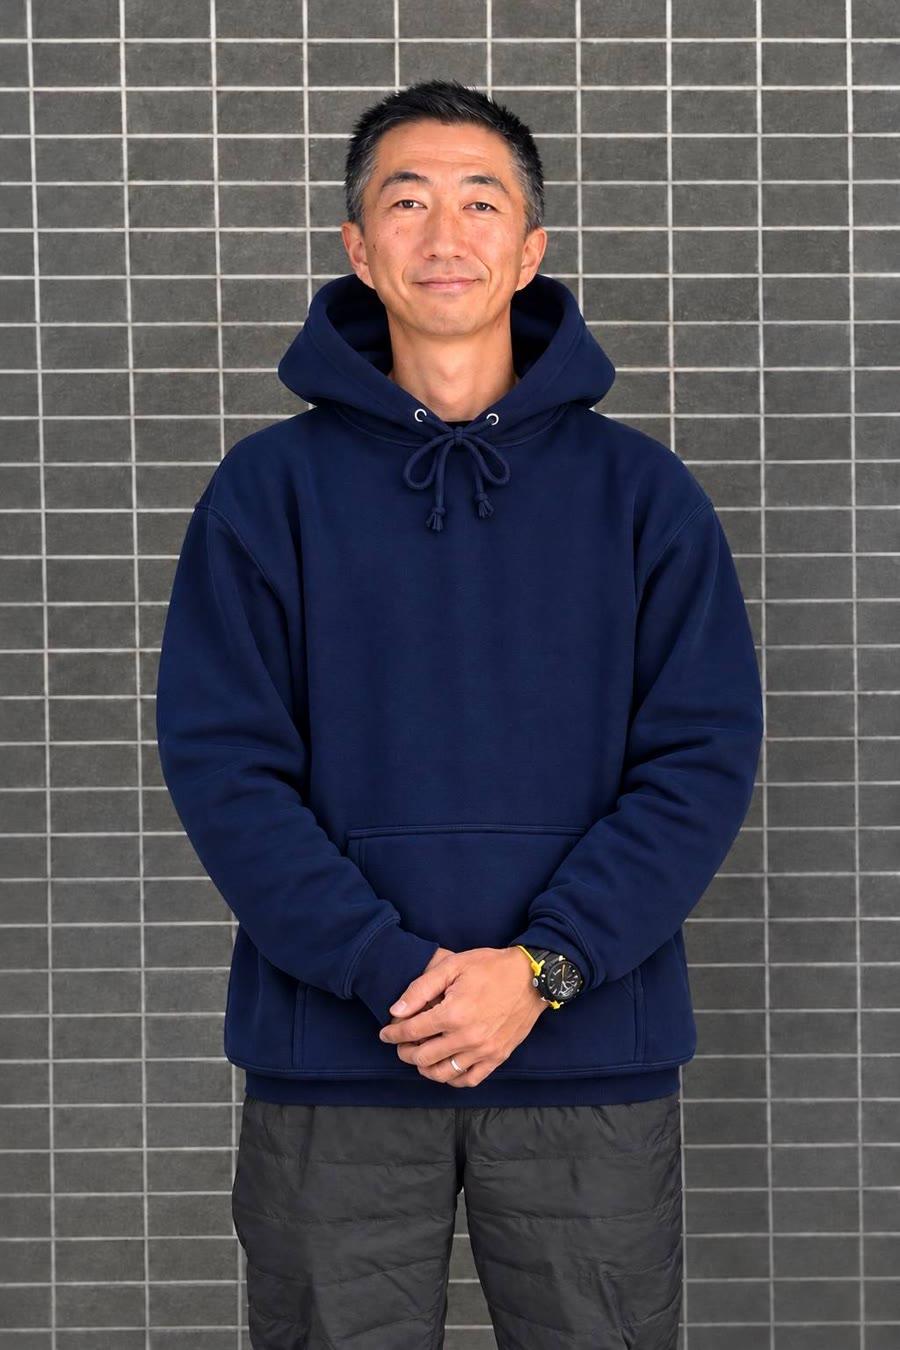
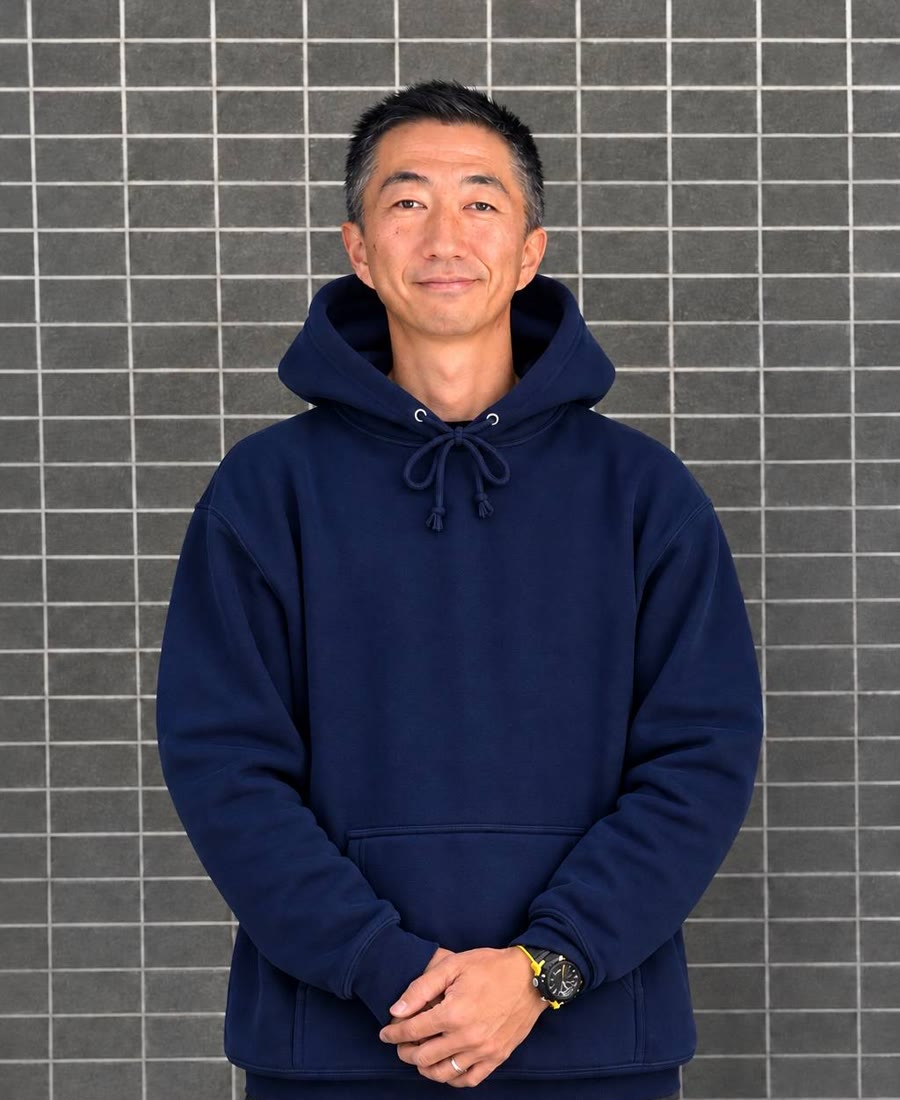
Client revision: service under hero, representative message, cleanup
- Service block moved directly under the hero; 'SERVICE' title and
  section numbers removed
- Representative message added to the company section; photo is now a
  bust-up, logo above it removed, centred on mobile
- Instagram QR and the bottom gallery (shop photos / yard clips) removed

Claude-Session: https://claude.ai/code/session_015dXEvPntYhBVMecd58rMDS

diff --git a/index.html b/index.html
@@ -138,10 +138,38 @@
   </div>
 </section>
 
+<!-- ============ SERVICE (right under the hero) ============ -->
+<section class="svc" id="service" aria-label="サービス">
+  <div class="wrap">
+
+    <div class="svc__cards">
+      <article class="svc__card" data-fade>
+        <video muted loop playsinline preload="metadata" poster="assets/img/yard3.jpg" aria-hidden="true"><source src="assets/video/yard3.mp4" type="video/mp4"><source src="assets/video/yard3.webm" type="video/webm"></video>
+        <div class="svc__card__in">
+          <i>01</i><b>Used cars</b><h3>中古車販売</h3>
+          <p>輸入車を中心に、国産車もメーカーを問わず対応いたします。</p>
+          <div class="svc__links">
+            <a href="http://www.carsensor.net/shopnavi/331885001" target="_blank" rel="noopener" data-cursor="hover">カーセンサー <em>↗</em></a>
+            <a href="https://www.instagram.com/kotaki_motors_kyoto/" target="_blank" rel="noopener" data-cursor="hover">Instagram <em>↗</em></a>
+          </div>
+        </div>
+      </article>
+      <a class="svc__card" href="flow.html" data-cursor="hover" data-fade>
+        <video muted loop playsinline preload="metadata" poster="assets/img/gloss2.jpg" aria-hidden="true"><source src="assets/video/gloss2.mp4" type="video/mp4"><source src="assets/video/gloss2.webm" type="video/webm"></video>
+        <div class="svc__card__in">
+          <i>02</i><b>Contract flow</b><h3>各種ご契約までの流れ</h3>
+          <p>店頭・オンライン・ヤフーオークション・カーコーティング。ご希望の方法に合わせた流れをご案内します。</p>
+          <span class="svc__more">詳しく見る <em>→</em></span>
+        </div>
+      </a>
+    </div>
+  </div>
+</section>
+
 <!-- ============ CONCEPT ============ -->
 <section class="concept" id="concept">
   <div class="wrap">
-    <p class="label"><span>01</span>Concept</p>
+    <p class="label">Concept</p>
     <p class="concept__lead" id="lead">コタキモータースでは、輸入中古車に最大限力を入れております。</p>
     <p class="concept__note" data-fade>※ご注文等、国産車もお取り扱いしております。</p>
 
@@ -207,7 +235,7 @@
 <section class="coated__body">
   <div class="wrap grid">
     <div class="col-l">
-      <p class="label"><span>02</span>All cars coated</p>
+      <p class="label">All cars coated</p>
       <h2 class="h-jp" data-lines>販売車両は全車<br>ガラスコーティング<br>施工済み</h2>
     </div>
     <div class="col-r prose why">
@@ -226,7 +254,7 @@
 <section class="coating" id="coating">
   <div class="coating__ghost" aria-hidden="true" id="ghost">CAR COATING</div>
   <div class="wrap">
-    <p class="label"><span>03</span>Car coating</p>
+    <p class="label">Car coating</p>
     <div class="coating__head">
       <h2 class="h-jp xl" data-lines>高品質な<br>コーティングを、<br>もっと身近な価格で。</h2>
       <div class="prose">
@@ -250,7 +278,7 @@
 <!-- ============ LOW COST ≠ LOW QUALITY ============ -->
 <section class="value" id="value" data-theme="light">
   <div class="wrap">
-    <p class="label"><span>04</span>Our reason</p>
+    <p class="label">Our reason</p>
     <h2 class="value__title" aria-label="LOW COST, HIGH QUALITY">
       <span class="ln"><span>LOW COST</span></span>
       <span class="ln ne"><span class="neq" id="neq"><svg viewBox="0 0 80 80" aria-hidden="true"><path class="bar1" d="M6 40H74"/><path class="bar2" d="M40 6V74"/></svg></span></span>
@@ -312,7 +340,7 @@
 <section class="process" id="process">
   <div class="process__pin">
     <div class="process__head wrap">
-      <p class="label"><span>05</span>Inside the booth</p>
+      <p class="label">Inside the booth</p>
       <h2 class="process__title">FROM FOAM<br>TO FINISH</h2>
       <p class="process__sub">施工ブースの様子</p>
     </div>
@@ -346,48 +374,31 @@
 </section>
 
 <!-- ============ SERVICE ============ -->
-<section class="svc" id="service">
-  <div class="wrap">
-    <p class="label"><span>06</span>Service</p>
-    <div class="svc__top">
-      <h2 class="svc__title">SERVICE</h2>
-    </div>
 
-    <div class="svc__cards">
-      <article class="svc__card" data-fade>
-        <video muted loop playsinline preload="metadata" poster="assets/img/yard3.jpg" aria-hidden="true"><source src="assets/video/yard3.mp4" type="video/mp4"><source src="assets/video/yard3.webm" type="video/webm"></video>
-        <div class="svc__card__in">
-          <i>01</i><b>Used cars</b><h3>中古車販売</h3>
-          <p>輸入車を中心に、国産車もメーカーを問わず対応いたします。</p>
-          <div class="svc__links">
-            <a href="http://www.carsensor.net/shopnavi/331885001" target="_blank" rel="noopener" data-cursor="hover">カーセンサー <em>↗</em></a>
-            <a href="https://www.instagram.com/kotaki_motors_kyoto/" target="_blank" rel="noopener" data-cursor="hover">Instagram <em>↗</em></a>
-          </div>
-        </div>
-      </article>
-      <a class="svc__card" href="flow.html" data-cursor="hover" data-fade>
-        <video muted loop playsinline preload="metadata" poster="assets/img/gloss2.jpg" aria-hidden="true"><source src="assets/video/gloss2.mp4" type="video/mp4"><source src="assets/video/gloss2.webm" type="video/webm"></video>
-        <div class="svc__card__in">
-          <i>02</i><b>Contract flow</b><h3>各種ご契約までの流れ</h3>
-          <p>店頭・オンライン・ヤフーオークション・カーコーティング。ご希望の方法に合わせた流れをご案内します。</p>
-          <span class="svc__more">詳しく見る <em>→</em></span>
-        </div>
-      </a>
-    </div>
-  </div>
-</section>
 
 <!-- ============ COMPANY / CONTACT ============ -->
 <section class="company" id="company">
   <div class="wrap">
-    <p class="label"><span>07</span>Company</p>
+    <p class="label">Company</p>
+        <div class="greet" id="greeting">
+      <p class="label">Message</p>
+      <h2 class="greet__q" data-lines>なぜ、全車コーティング<br>施工済みで販売するのか？</h2>
+      <div class="greet__body prose">
+        <p class="prose__lead" data-fade>美しさも、品質のひとつ。</p>
+        <p data-fade>コタキモータースでは、ご購入いただくお車すべてにガラスコーティングを標準施工しています。</p>
+        <p data-fade>中古車は、一台一台の使用環境や保管状況によって、ボディの状態が異なります。<br>だからこそ、仕入れた車両の状態に合わせた下地処理や研磨を行い、ボディ本来の美しさを引き出したうえで、ガラスコーティングを施工しています。</p>
+        <p data-fade>それは、単に見た目を美しくするためだけではありません。<br>塗装面を保護し、日々のお手入れをしやすくすることで、ご購入後も愛車を美しく保っていただきたいからです。</p>
+        <p data-fade>車両の仕入れ時の良質な個体選びはもちろんのこと、通常は購入時に追加オプションとなるボディコーティングを、当店では標準サービスとしてご提供。</p>
+        <p class="greet__quote" data-fade>「中古車だから、この程度でいい」ではなく、<br>「中古車だからこそ、ここまでこだわる」。</p>
+        <p data-fade>お車を選ぶ喜びだけでなく、納車された瞬間の感動と、その先のカーライフまで。<br>それが、コタキモータースの考える中古車販売です。</p>
+        <p class="greet__sign" data-fade>KOTAKI MOTORS<br>代表　小滝 貴之</p>
+      </div>
+    </div>
+
     <div class="company__grid">
       <div class="company__side">
-        <div class="company__logo" data-fade>
-          <img src="assets/img/logo.png" width="512" height="519" alt="KOTAKI MOTORS ロゴ" loading="lazy">
-        </div>
         <figure class="company__rep" data-fade>
-          <img src="assets/img/daihyo.jpg" width="900" height="1350" alt="代表 小滝 貴之" loading="lazy">
+          <img src="assets/img/daihyo.jpg" width="900" height="1100" alt="代表 小滝 貴之" loading="lazy">
           <figcaption><small>Representative</small>代表　小滝 貴之</figcaption>
         </figure>
       </div>
@@ -406,15 +417,7 @@
         <div><dt>お支払い</dt><dd>各種クレジット払い対応<span class="info__note">車両代金以外のパーツ費用や車検費用等にご利用いただけます。</span></dd></div>
       </dl>
     </div>
-
-    <div class="shop" data-fade>
-      <figure><img src="assets/img/shop-cabin.jpg" width="1400" height="1050" alt="KOTAKI MOTORS 店舗事務所の外観" loading="lazy"></figure>
-      <figure><img src="assets/img/shop-sign.jpg" width="1400" height="1050" alt="KOTAKI MOTORS の看板と展示車両" loading="lazy"></figure>
-      <figure class="shop__v"><video muted loop playsinline preload="metadata" poster="assets/img/yard.jpg" aria-label="展示場の様子"><source src="assets/video/yard.mp4" type="video/mp4"><source src="assets/video/yard.webm" type="video/webm"></video></figure>
-      <figure class="shop__v"><video muted loop playsinline preload="metadata" poster="assets/img/yard3.jpg" aria-label="展示場と事務所"><source src="assets/video/yard3.mp4" type="video/mp4"><source src="assets/video/yard3.webm" type="video/webm"></video></figure>
-    </div>
-
-    <div class="map" data-fade>
+<div class="map" data-fade>
       <iframe title="KOTAKI MOTORS の所在地（Google マップ）" loading="lazy" referrerpolicy="no-referrer-when-downgrade"
         src="https://maps.google.com/maps?q=%E4%BA%AC%E9%83%BD%E5%BA%9C%E5%AE%87%E6%B2%BB%E5%B8%82%E4%BC%8A%E5%8B%A2%E7%94%B0%E7%94%BA%E9%81%8A%E7%94%B072-1&hl=ja&z=16&output=embed"></iframe>
       <a class="map__link" href="https://www.google.com/maps/search/?api=1&query=%E4%BA%AC%E9%83%BD%E5%BA%9C%E5%AE%87%E6%B2%BB%E5%B8%82%E4%BC%8A%E5%8B%A2%E7%94%B0%E7%94%BA%E9%81%8A%E7%94%B072-1" target="_blank" rel="noopener" data-cursor="hover">Google マップで開く ↗</a>
@@ -424,7 +427,7 @@
 
 <section class="contact" id="contact">
   <div class="wrap">
-    <p class="label"><span>08</span>Contact</p>
+    <p class="label">Contact</p>
     <h2 class="contact__title"><span class="ln"><span>LET’S TALK</span></span><span class="ln"><span>ABOUT YOUR CAR.</span></span></h2>
     <p class="contact__jp">ご相談・お見積りは、お気軽にどうぞ。<br>全国対応いたします。</p>
 
@@ -434,9 +437,6 @@
         <a class="big" href="tel:09015911885" data-cursor="hover"><small>MOBILE</small><span>090-1591-1885</span></a>
         <a class="big" href="https://www.instagram.com/kotaki_motors_kyoto/" target="_blank" rel="noopener" data-cursor="hover"><small>INSTAGRAM</small><span>@kotaki_motors_kyoto</span></a>
         <button class="big mail" id="copyMail" type="button" data-cursor="hover"><small>E-MAIL <em id="copyState">タップでコピー</em></small><span>kotaki.company@gmail.com</span></button>
-        <figure class="qr" data-fade>
-        <img src="assets/img/instagram-qr.jpg" width="640" height="869" alt="Instagram @kotaki_motors_kyoto の QR コード" loading="lazy">
-      </figure>
       </div>
 
       <form class="form" id="form" novalidate>

diff --git a/css/style.css b/css/style.css
@@ -68,7 +68,7 @@ body::after{
   color:var(--silver);
 }
 .label span{font-weight:800;color:inherit}
-.label span::after{content:"";display:inline-block;width:44px;height:1px;background:currentColor;vertical-align:middle;margin-left:14px;opacity:.6}
+.label::before{content:"";display:inline-block;width:44px;height:1px;background:currentColor;opacity:.6}
 
 .h-jp{font-family:var(--f-jp);font-weight:900;line-height:1.28;letter-spacing:.01em;font-size:clamp(1.9rem,3.8vw,3.9rem)}
 .h-jp.xl{font-size:clamp(2rem,4.1vw,4.4rem)}
@@ -202,7 +202,7 @@ html:not(.js) .loader{display:none}
 @keyframes spin{to{transform:rotate(360deg)}}
 
 /* ---------- concept ---------- */
-.concept{position:relative;background:var(--deep);padding:clamp(100px,16vw,260px) 0 clamp(80px,11vw,180px)}
+.concept{position:relative;background:var(--deep);padding:clamp(80px,12vw,200px) 0 clamp(80px,11vw,180px)}
 .concept__lead{
   margin-top:clamp(28px,4vw,56px);max-width:19em;
   font-weight:900;font-size:clamp(1.9rem,5vw,5.4rem);line-height:1.38;letter-spacing:.005em;
@@ -355,7 +355,7 @@ html:not(.js) .loader{display:none}
 .btn--solid:hover{background:var(--hi)}
 
 /* ---------- service ---------- */
-.svc{position:relative;background:var(--deep);padding:clamp(90px,12vw,200px) 0 clamp(90px,12vw,200px);border-top:1px solid var(--line)}
+.svc{position:relative;background:var(--deep);padding:clamp(70px,9vw,150px) 0 clamp(20px,3vw,40px)}
 .svc__top{display:flex;justify-content:space-between;align-items:flex-end;gap:30px;flex-wrap:wrap;margin:clamp(24px,3vw,44px) 0 clamp(36px,5vw,80px)}
 .svc__title{font-family:var(--f-en);font-variation-settings:"wdth" 125;font-weight:800;font-size:clamp(3.4rem,13vw,16rem);line-height:.84;letter-spacing:-.035em;text-transform:uppercase}
 .svc__note{max-width:20em;color:var(--silver);font-weight:500;line-height:1.9;font-size:clamp(.9rem,1.1vw,1.05rem)}
@@ -737,3 +737,19 @@ a.svc__card:hover>video{transform:scale(1.06)}
 .step:hover .step__ill{transform:scale(1.05)}
 
 .svc__card .svc__links{gap:10px}
+
+/* ---- 2026-11 revision ---- */
+.company__side{max-width:360px}
+.company__rep img{aspect-ratio:900/1100;object-fit:cover;object-position:50% 20%}
+@media (max-width:860px){
+  .company__side{max-width:none;align-items:center}
+  .company__rep{max-width:min(78%,320px);margin-inline:auto}
+  .company__rep figcaption{text-align:center}
+}
+/* representative greeting */
+.greet{margin:clamp(28px,4vw,56px) 0 clamp(50px,7vw,110px);padding-bottom:clamp(40px,6vw,90px);border-bottom:1px solid var(--line)}
+.greet__q{margin-top:clamp(18px,2.4vw,32px);font-weight:900;font-size:clamp(1.7rem,3.8vw,3.8rem);line-height:1.4}
+.greet__body{margin-top:clamp(24px,3vw,44px);max-width:46em}
+.greet__body p{line-height:2.2}
+.greet__quote{font-weight:900;color:#fff;font-size:clamp(1.15rem,2vw,1.9rem);line-height:1.8;border-left:3px solid var(--acc);padding-left:1em;margin:1.8em 0!important}
+.greet__sign{margin-top:2.2em!important;font-weight:700;letter-spacing:.14em;color:var(--hi);line-height:1.9}
